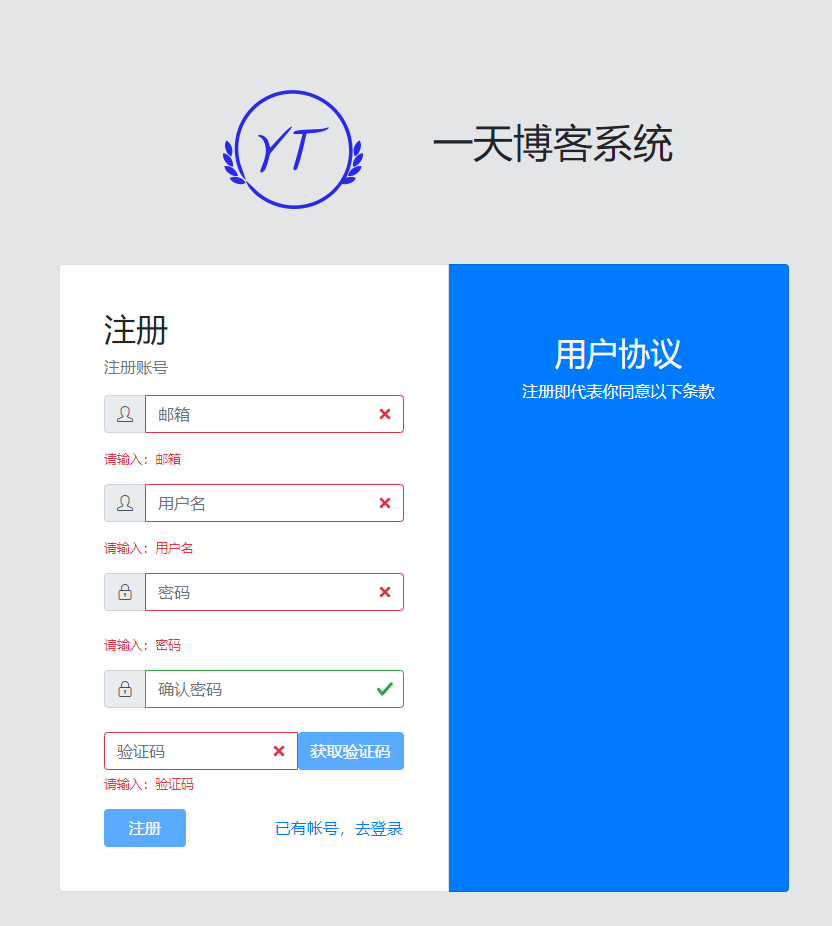
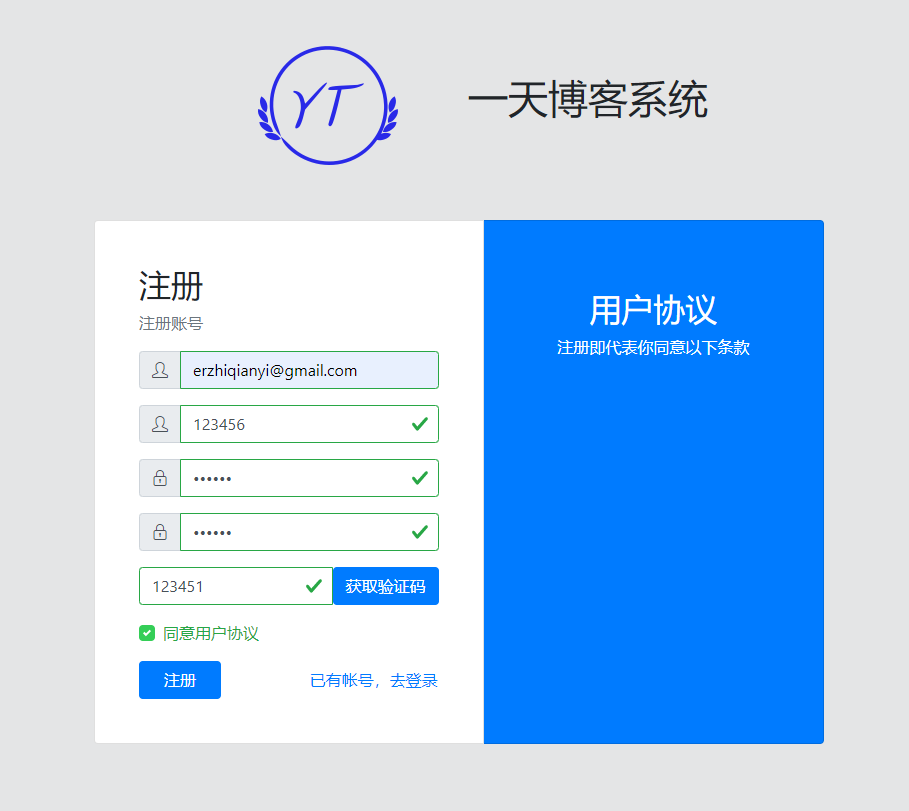
register page add agree protocol check box

diff --git a/vue-blog/src/views/pages/register/index.vue b/vue-blog/src/views/pages/register/index.vue
@@ -67,7 +67,7 @@
                     :invalid-feedback="passwordInvalidFeedback"
                     :state="passwordState"
                   >
-                    <b-input-group class="mb-4">
+                    <b-input-group class="mb-3">
                       <b-input-group-prepend>
                         <b-input-group-text>
                           <i class="icon-lock"></i>
@@ -90,7 +90,7 @@
                     :invalid-feedback="rePasswordInvalidFeedback"
                     :state="rePasswordState"
                   >
-                    <b-input-group class="mb-4">
+                    <b-input-group class="mb-3">
                       <b-input-group-prepend>
                         <b-input-group-text>
                           <i class="icon-lock"></i>
@@ -113,8 +113,8 @@
                     :invalid-feedback="codeInvalidFeedback"
                     :state="codeState"
                   >
-                    <b-input-group>
-                      <b-form-input 
+                    <b-input-group class="mb-3">
+                      <b-form-input
                         id="code"
                         type="text"
                         class="form-control"
@@ -122,9 +122,18 @@
                         :state="codeState"
                         v-model.trim="code"
                       ></b-form-input>
-                      <b-button  variant="primary" :disabled="!emailState" >获取验证码</b-button>
-                      
+                      <b-button variant="primary" :disabled="!emailState">获取验证码</b-button>
                     </b-input-group>
+                  </b-form-group>
+                  <b-form-group>
+                    <b-form-checkbox
+                      id="protocol"
+                      value="accepted"
+                      unchecked-value="not_accepted"
+                      v-model="agreeProtocol"
+                      :state="protocolState"
+                    >{{$t('register.agree_protocol')}}</b-form-checkbox>
+                    <b-form-invalid-feedback :state="protocolState">{{$t('register.prototol_feedback')}}</b-form-invalid-feedback>
                   </b-form-group>
                   <b-row>
                     <b-col cols="6">
@@ -209,6 +218,12 @@ export default {
     },
     codeInvalidFeedback() {
       return validSize(this.code, 6, 6, this.$t("register.code"));
+    },
+    protocolState() {
+      return this.agreeProtocol == "accepted";
+    },
+    protocolInvalidFeedback() {
+      return this.agreeProtocol == "accepted" ? "" : "请同意用户协议";
     }
   },
 
@@ -219,6 +234,7 @@ export default {
       rePassword: "",
       email: "",
       code: "",
+      agreeProtocol: "not_accepted",
       loading: false,
       logo:
         "https://github.com/erzhiqianyi/spring-boot-vue-blog/blob/master/image/logo.png?raw=true",

diff --git a/vue-blog/src/lang/zh.js b/vue-blog/src/lang/zh.js
@@ -18,7 +18,9 @@ export default {
         register_loading: '注册中',
         login: '已有帐号，去登录',
         wrong_password : '两次密码不一致',
-        code: "验证码"
+        code: "验证码",
+        agree_protocol: '同意用户协议',
+        prototol_feedback: '请同意用户协议'
     },
     valid: {
         input: '请输入：',

diff --git a/vue-blog/src/lang/en.js b/vue-blog/src/lang/en.js
@@ -19,7 +19,9 @@ export default {
         register_loading: 'Registering',
         login: 'login',
         wrong_password : 'password not same',
-        code: "verify code"
+        code: "verify code",
+        agree_protocol: 'agree protocol',
+        prototol_feedback: 'please agree protocol'
     },
     valid: {
         input: 'please input: ',
